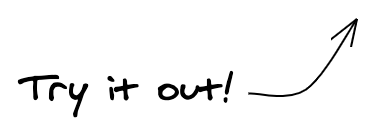
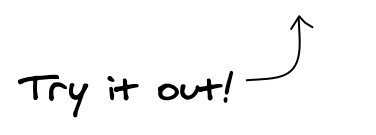
Update to UI arrow directions

diff --git a/static/js/app.jsx b/static/js/app.jsx
@@ -42,7 +42,7 @@ function AdvSearch() {
   const [wildcard, setWildcard] = React.useState('');
   const [numSongs, setNumSongs] = React.useState(20);
   const [offset, setOffset] = React.useState(0);
-  const [tracks, setTracks] = React.useState([]);
+  const [tracks, setTracks] = React.useState(getSessionStorage('tracks') || []);
   const [queries, setQueries] = React.useState(getSessionStorage('queries') || []);
   const [loading, setLoading] = React.useState(false);
   const query = buildQuery(queries);
@@ -52,6 +52,10 @@ function AdvSearch() {
   React.useEffect(() => {
     setSessionStorage('queries', queries);
   }, [queries]);
+
+  // React.useEffect(() => {
+  //   setSessionStorage('tracks', tracks);
+  // }, [tracks]);
 
   React.useEffect(() => {
     if (query) {
@@ -172,6 +176,8 @@ function AdvSearch() {
     setPlaylistTitle('');
   }
 
+  let editable = (USER != null);
+
   return (
     <React.Fragment>
       <Navbar id="cover-image">
@@ -222,7 +228,7 @@ function AdvSearch() {
                 <Col >
                   <img
                     className="loginprompt"
-                    src="/static/img/login.png"
+                    src="/static/img/loginprompt.png"
                     width="250"
                     height="auto"
                   >
@@ -250,7 +256,7 @@ function AdvSearch() {
                     variant="outline-secondary"
                     type="submit"
                   >
-                    Save Playlist</Button>
+                    Set Playlist</Button>
                   <br />
                 </Form.Row>
               )}
@@ -278,7 +284,7 @@ function AdvSearch() {
           <Row className="align-content-center">
             <Table hover>
               <TracksHeader
-                editable={true}
+                editable={editable}
               />
               <DragDropContext onDragEnd={handleDragEnd}>
                 <Droppable droppableId="droppable">
@@ -291,7 +297,7 @@ function AdvSearch() {
                         <Draggable
                           key={track.uid}
                           draggableId={track.uid}
-                          index={index}
+                          index={index} isDragDisabled={(USER == null)}
                         >
                           {(provided, snapshot) => (
                             <tr ref={provided.innerRef}
@@ -303,7 +309,7 @@ function AdvSearch() {
                                 track={track}
                                 index={index}
                                 onDeleteTrack={handleDeleteTrack}
-                                editable={true}
+                                editable={editable}
                               />
                             </tr>
                           )}

diff --git a/static/js/navbar.jsx b/static/js/navbar.jsx
@@ -37,12 +37,12 @@ function Topbar(props) {
               variant="outline-secondary inline"
               id="btn-login"
             >
+              Log In&nbsp;
               <img
                 src="/static/img/spot_icon_gr.png"
                 width="35"
                 height="35">
-              </img>&nbsp;
-            Log in to Spotify
+              </img>
             </Button>
           )}
         </Navbar.Collapse>

diff --git a/static/css/site.css b/static/css/site.css
@@ -287,7 +287,7 @@ a {
 }
 
 .tryitout {
-  margin-top: -20px;
+  margin-top: -15px;
   margin-left: 210px;
   opacity: 0.8;
 }
